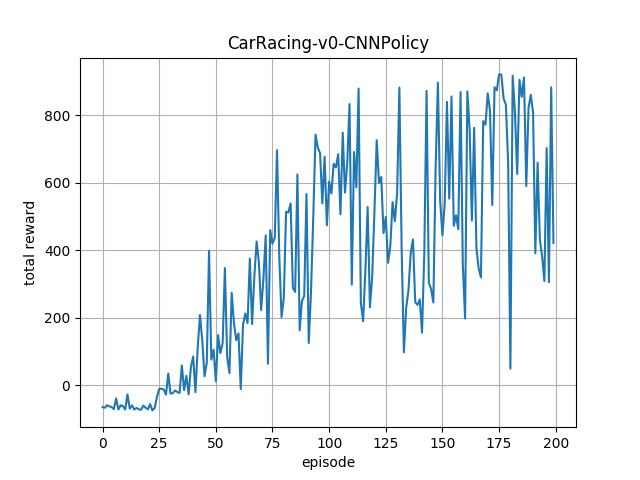
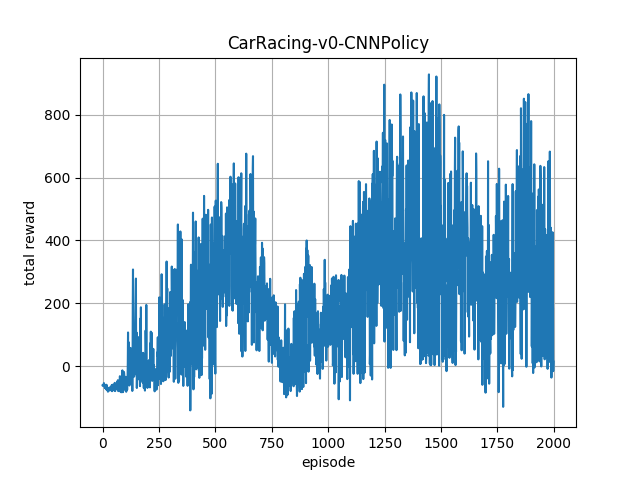
WHY VAE so slow...

diff --git a/01_train_cnn_policy.py b/01_train_cnn_policy.py
@@ -4,30 +4,30 @@ from rl_toolbox.policy import CNNPolicy
 
 
 def main():
-    # for i in range(4, 12, 2):
-    #     runner = Runner(
-    #         'CarRacing-v0',
-    #         PPOAgent,
-    #         CNNPolicy,
-    #         record_data=False,
-    #         data_path=None,
-    #         save=True,
-    #         load=(i > 4),
-    #         weight_path='./weights/')
+    for i in range(4, 12, 2):
+        runner = Runner(
+            'CarRacing-v0',
+            PPOAgent,
+            CNNPolicy,
+            record_data=False,
+            data_path=None,
+            save=True,
+            load=(i > 4),
+            weight_path='./weights/')
+
+        runner.run(abs_output_limit=[1, i / 10, 1], num_episode=1000, continue_plot=(i < 12))
+
+    # runner = Runner(
+    #     'CarRacing-v0',
+    #     PPOAgent,
+    #     CNNPolicy,
+    #     record_data=False,
+    #     data_path=None,
+    #     save=True,
+    #     load=False,
+    #     weight_path='./weights/')
     #
-    #     runner.run(abs_output_limit=[1, i / 10, 1], num_episode=100, continue_plot=(i < 12))
-
-    runner = Runner(
-        'CarRacing-v0',
-        PPOAgent,
-        CNNPolicy,
-        record_data=False,
-        data_path=None,
-        save=True,
-        load=False,
-        weight_path='./weights/')
-
-    runner.run(abs_output_limit=[1, 0.6, 1],num_episode=500)
+    # runner.run(abs_output_limit=[1, 1, 1])
 
 
 if __name__ == '__main__':

diff --git a/06_have_fun.py b/06_have_fun.py
@@ -1,0 +1,22 @@
+from rl_toolbox import Runner
+from rl_toolbox.agent import PPOAgent
+from rl_toolbox.policy import VAEPolicy, CNNPolicy
+
+
+def main():
+    for fun in (VAEPolicy, CNNPolicy):
+        runner = Runner(
+            'CarRacing-v0',
+            PPOAgent,
+            fun,
+            record_data=False,
+            data_path=None,
+            save=False,
+            load=True,
+            weight_path='./weights/')
+
+        runner.run({'train': False})
+
+
+if __name__ == '__main__':
+    main()

diff --git a/rl_toolbox/runner.py b/rl_toolbox/runner.py
@@ -46,7 +46,7 @@ class Runner(object):
         if self.load:
             self.policy.load_state_dict(torch.load(self.weight_path))
 
-    def run(self, agent_kwargs=None, num_episode=1000, abs_output_limit=1, draw_result=True, continue_plot=False):
+    def run(self, agent_kwargs=None, num_episode=2000, abs_output_limit=1, draw_result=True, continue_plot=False):
         save_interval = 10
         abs_output_limit = np.array(abs_output_limit)
 

diff --git a/05_train_combined_policy.py b/05_train_combined_policy.py
@@ -27,7 +27,7 @@ def main():
         load=True,
         weight_path='./weights/')
 
-    runner.run(abs_output_limit=[1, 0.6, 1],num_episode=500)
+    runner.run(abs_output_limit=[1, 1, 1])
 
 
 if __name__ == '__main__':

diff --git a/rl_toolbox/policy/shared.py b/rl_toolbox/policy/shared.py
@@ -49,7 +49,7 @@ class VAEPolicy(nn.Module):
         super(VAEPolicy, self).__init__()
         self.pd = None
 
-        z_size = 128
+        z_size = 256
 
         self.visual = VAE(z_size, add_noise=False)
 

diff --git a/README.md b/README.md
@@ -22,7 +22,7 @@ Try to implement some RL related algorithm in PyTorch.
 
 | Visual policy
 |--------------
-| <img src="image/" width="300"/>
+| <img src="image/CarRacing-v0-VAEPolicy.png" width="300"/>
 
 
 
